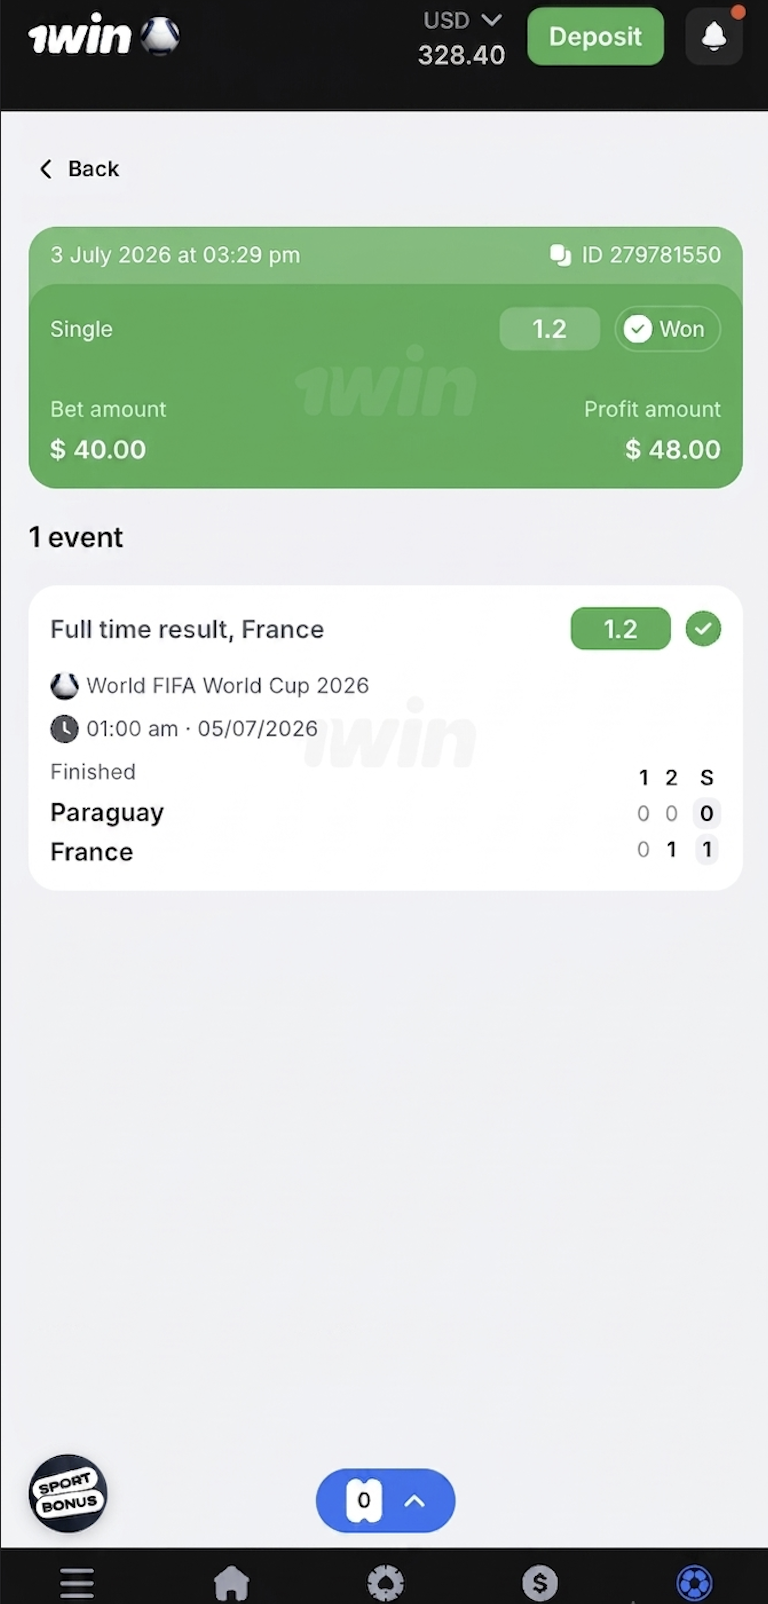
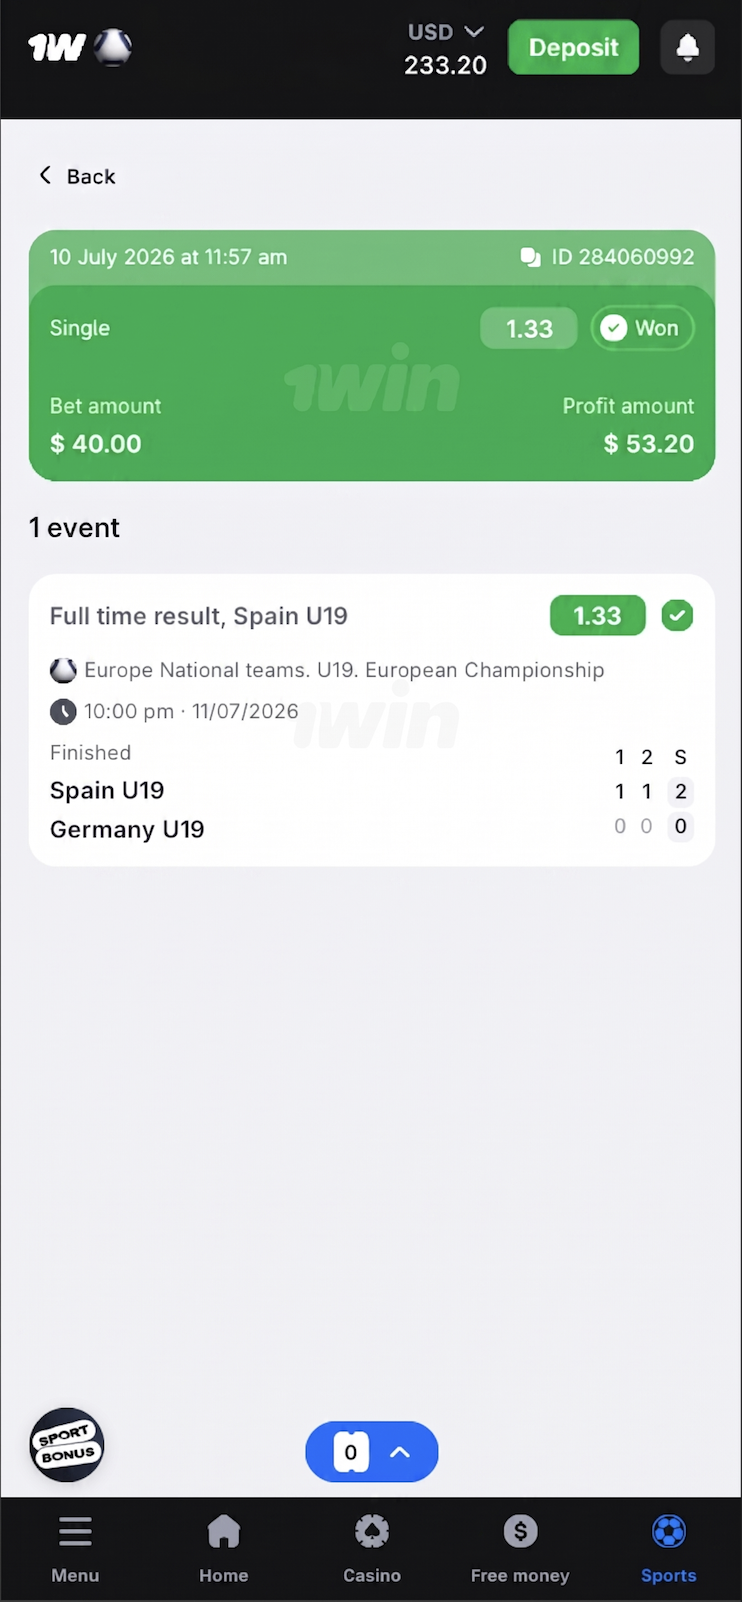
upadte

Changed region(s): [[0.0, 0.0, 1.0, 1.0], [0.062, 0.3433, 0.9609, 0.5618], [0.8059, 0.4682, 0.9299, 0.5306]]

diff --git a/fortunobet/FortunoBetBot.py b/fortunobet/FortunoBetBot.py
@@ -42,7 +42,6 @@ scheduler = BlockingScheduler()
 # 22:00 — Final Bonus (HYPE)
 
 posts =[
-# Ghana
 # {"date": "2026-06-15", "time": "12:00", "content": "🏀 <b>Oklahoma City Thunder ✅ USA NBA</b>\n\nNBA Playoffs. Odds 1.49. 🏆\n$70 → $104.30. Final 127-114. Dominated. 💸\n\nOKC home court elite. Data clear. H2H obvious. E easy be. 🎯\nSTOP WATCHING. They collecting. Pick ONE. Place it. GO. 🔥\n\nDeposit GH₵50 → play with GH₵300\n🔑 Code: <code>fortunobet</code>\n👉 <b>PLACE YOUR BET:</b> https://r1wexmo.life/betting?open=register&p=t02b", "images": ["2win1.png"]},
 # {"date": "2026-06-15", "time": "18:00", "content": "🎯 Placing this now. Spain vs Cape Verde. World Cup 2026.\nSpain home machine. Won 8 of last 10 at home. Odds 1.08.\nEntering on 1WIN now. 👀\n👉 https://one-vv3184.com/betting/match/sport/spain-vs-cape-verde-31345118", "images": []},
 # {"date": "2026-06-15", "time": "23:55", "content": "💸 <b>GH₵450 MTN Mobile Money — Instant. ✅</b>\n\nMonday 15 June. 05:10 AM. Real notification. 💚\nGH₵450 (~$30 USD). ID: MTN-[phone redacted]. Same minute.\n\nOKC were at home. Spurs had no answers all game.\nKwame backed it early. Withdrew before work. Chale. 💸\n\nSame quality data loads every week. Back it yourself. 🙏\n\nStart with GH₵50. Test withdrawal yourself.\n🔑 Code: <code>fortunobet</code>\n👉 <b>Test it yourself:</b> https://r1wexmo.life/betting?open=register&p=t02b", "images": ["15waiting.png", "15fast.png"]},
@@ -66,21 +65,33 @@ posts =[
 # {"date": "2026-06-21", "time": "23:55", "content": "🎰 <b>500% Bonus — active tonight only! ❌</b>\n\n1WIN Casino. Fortune Tiger. Gates of Olympus. 💰\nGH₵50 → play with GH₵300 + 500 free spins. Chale.\n\nPromo code works now — not guaranteed tomorrow. ⚠️\nThree payouts this week. GH₵450 + GH₵750 + GH₵1,200. No dulling. 💸\n\nPlace your bet before bonus expires. JOIN NOW. 🔥\n\nDeposit GH₵50 → play with GH₵300\n🔑 Code: <code>fortunobet</code>\n👉 <b>PLACE YOUR BET:</b> https://r1wexmo.life/betting?open=register&p=t02b", "images": ["bonus4.jpeg"]},
 
 
+  {"date":"2026-07-13","time":"15:00","content":"🏀 <b>Dallas Wings W ✅ USA WNBA</b>\n\nUSA WNBA. Odds 1.34. 🏆\n$45 → $60.30. Final 108-95. Dominated. 💸\n\nDallas Wings elite form. Data clear. H2H obvious. It's too easy. 🎯\nSTOP WATCHING. We are winning. Pick ONE. Place it. GO. 🔥\n\nDeposit UGX 10,000 → play with UGX 60,000\n🔑 Code: <code>fortunobet</code>\n👉 <b>PLACE YOUR BET:</b> https://r1wexmo.life/betting?open=register&p=t02b","images":["win3.png"]},
+  {"date":"2026-07-13","time":"23:55","content":"💸 <b>UGX 112,000 MTN Mobile Money — Instant. ✅</b>\n\nMonday 13 July. 05:13 AM. Real notification. 💚\nUGX 112,000 (~$30 USD). ID: MM-[phone redacted]. Same minute.\n\nDallas Wings were elite at home. Toronto had no answers.\nBrian backed it early. Withdrew before morning. So simple. 💸\n\nSame quality data loads every week. Back it yourself. 🙏\n\nStart with UGX 10,000. Test withdrawal yourself.\n🔑 Code: <code>fortunobet</code>\n👉 <b>Test it yourself:</b> https://r1wexmo.life/betting?open=register&p=t02b","images":["withdrow1.png"]},
 
+  {"date":"2026-07-14","time":"12:00","content":"💡 <b>How to place your first bet — 30 seconds</b>\n\nMy friend, it's simple. Here is what smart bettors do.\n\nOpen 1WIN → find ONE match → UGX 10,000 → place bet. 🎯\nWin → withdraw MTN same day. That is it. 💸\n\nChannel members doing this every week — you are missing out.\nBrian placed ONE bet. Withdrew UGX 112,000. Share with 2 friends! Don't sleep.\n\nStart with UGX 10,000. Test withdrawal yourself.\n🔑 Code: <code>fortunobet</code>\n👉 <b>Test it yourself:</b> https://r1wexmo.life/betting?open=register&p=t02b","images":["fortunobet1.jpeg"]},
+  {"date":"2026-07-14","time":"17:00", "content": "🎰 <b>FortunoBet — All Games & All Bonuses in ONE Place! 🏆</b>\n\nWhy use separate sites? FortunoBet has it all! 💰\n\n⚽ Sports (WNBA, Premier League, Tennis)\n🎰 5,000+ Slots (Tower Rush, Aviator)\n♠️ Live Poker & Casino games\n\n⚡ <b>500% Welcome Bonus active now!</b>\n💸 Instant MTN & Airtel cashouts. It's too simple. 🎯\n\n🔑 Code: <code>fortunobet</code>\n👉 <b>PLACE YOUR BET:</b> https://fortunobet.com/", "images": ["fortunobetVIP.jpeg"]},
+  {"date":"2026-07-14","time":"23:55","content":"⚡ <b>UGX 112,000 arrived. Instant. No stress. ✅</b>\n\nMonday 13 July. 05:13 AM. Real MTN. 💚\nID: MM-7732211. Same minute. Zero fees.\n\nSome people are still scrolling. Brian already backed Dallas Wings — withdrew same morning. 💸\n\nThe platform works. The only question is when you will try it. 🙏\n\nStart with UGX 10,000. Test withdrawal yourself.\n🔑 Code: <code>fortunobet</code>\n👉 <b>Test it yourself:</b> https://r1wexmo.life/betting?open=register&p=t02b","images":["withdrow1.png"]},
 
-{"date": "2026-07-09", "time": "12:00", "content": "Stop leaving your gaming profits to luck! 💸\n\nLive tracking, verified partner platforms, and elite algorithms ready on FortunoBet. 🎰\n- Ggwe, stop watching from the sidelines. Tap below and activate your account.\n- 1WIN platform is locked for the big winners tonight. 💸\n- E easy be. Tap below. Start collecting. 🎯\n\n🔑 Code: <code>fortunobet</code>\n👉 OPEN PLATFORM NOW: https://fortunobet.com", "images": ["fortunobetVIP.jpeg"]},
-{"date": "2026-07-09", "time": "16:55", "content": "💚 Midnight Mobile Money Alert verified successfully! ✅\n\nWednesday execution complete. 12:14 AM real transaction check. 💸\n- $50 USD extracted cleanly into local networks while town was asleep. 💸\n- Smart bettors read the analytics node and secured early profit margins. 🙏\n- Ivan backed it early. Withdrew before breakfast. Kati. 💸\n\nStart with UGX 12,000. Test withdrawal yourself.\n🔑 Code: <code>fortunobet</code>\n👉 Test it yourself: https://r1wexmo.life/betting?open=register&p=t02b", "images": ["with2.png"]},
+  {"date":"2026-07-15","time":"12:00","content":"🎾 <b>Simona Waltert ✅ WTA 125K Bastad</b>\n\nWTA 125K Bastad. Sweden. Clay. Odds 1.42. 🏆\n$55 → $78.10. Final 2-0 (7-5, 6-2). Dominated. 💸\n\nClay form elite. Waltert baseline locked. It's too simple. 🎯\nSTOP WATCHING. They are collecting wins. Pick ONE. GO. 🔥\n\nDeposit UGX 10,000 → play with UGX 60,000\n🔑 Code: <code>fortunobet</code>\n👉 <b>PLACE YOUR BET:</b> https://r1wexmo.life/betting?open=register&p=t02b","images":["win2.png"]},
+  {"date":"2026-07-15","time":"19:00","content":"","images":[]},
+  {"date":"2026-07-15","time":"23:55","content":"🚨 <b>Members withdrew twice this week already. ✅</b>\n\nUGX 112,000 Monday. UGX 120,000 today. MTN instant. Real proof. 💚\nChannel members are collecting — you are watching from the outside.\n\nDallas Wings paid. Simona Waltert paid. Two different sports. Same result.\nPick ONE match tonight before odds shift. How long will you watch? 🔥\n\nDeposit UGX 10,000 → play with UGX 60,000\n🔑 Code: <code>fortunobet</code>\n👉 <b>PLACE YOUR BET:</b> https://r1wexmo.life/betting?open=register&p=t02b","images":["withdrow2.png"]},
 
-{"date": "2026-07-10", "time": "12:00", "content": "⚾ Elite Diamond Clearcut! Baseball Execution ✅\n\nUSA MLB Match setup. Odds 1.26. 🏆\n- Stake UGX 10,000 ➔ Secure UGX 12,600 total return. ✅\n- Baltimore Orioles dominated Washington Nationals cleanly. 💸\n- No long stories, stop analyzing on your own. Copy the system. 🔥\n- Data clear. H2H obvious. Back it yourself. 🙏\n\nDeposit UGX 12,000 → play with UGX 72,000\n🔑 Code: <code>fortunobet</code>\n👉 PLACE YOUR BET: https://r1wexmo.life/betting?open=register&p=t02b", "images": ["win3.png"]},
-{"date": "2026-07-10", "time": "18:00", "content": "🎯 Spain vs Belgium. World Cup 2026.\n\nSpain strong at home, scoring 1.5+ in 7 of last 10. Odds 1.30. \n- Backing the Spanish dominance tonight. Entering 1WIN now. 🔥\n- Spain home machine. No dulling. Pick ONE. GO. 🎯\n- Channel members already locked in. You dey outside. 💸\n\nDeposit UGX 12,000 → play with UGX 72,000\n🔑 Code: <code>fortunobet</code>\n👉 PLACE YOUR BET: https://one-vv4763.com/betting/match/sport/spain-vs-belgium-37225612?p=z4m5", "images": []},
-{"date": "2026-07-11", "time": "00:49", "content": "♠️ THE ULTIMATE PRIZE FOR A ROYAL FLUSH IS WAITING! 💎\n\nFor the true card sharks and strategic masterminds across Kampala! 🇺🇬\n- Enter high-stakes elite casino lobbies where big players secure revenue.\n- Massive multipliers, certified fair play algorithms, instant pay. 💸\n- Do not play small. Tap the link, use the code, sit at the table. 👇\n- Same quality data loads every week. Back it yourself. 🙏\n\nStart with UGX 12,000. Test withdrawal yourself.\n🔑 Code: <code>fortunobet</code>\n👉 Test it yourself: https://r1wexmo.life/betting?open=register&p=t02b", "images": ["bpnus5.jpeg"]},
+  {"date":"2026-07-16","time":"12:00","content":"📊 <b>3 mistakes Uganda bettors make every week</b>\n\nMy friends, stop making these mistakes.\n\n❌ Betting big — lose everything fast.\n❌ Random channels — no data, pure luck.\n❌ Chasing losses — emotion kills bankroll.\n\nBrian's ONE pick — backed Dallas Wings home form. Withdrew UGX 112,000.\nWeekend fixtures loading — find yours before odds close. 🔥\n\nDeposit UGX 10,000 → play with UGX 60,000\n🔑 Code: <code>fortunobet</code>\n👉 <b>PLACE YOUR BET:</b> https://r1wexmo.life/betting?open=register&p=t02b","images":["fortunobet3.jpeg"]},
+  {"date":"2026-07-16","time":"18:00","content":"💬 Anybody collected this week?\n\nShow your MTN alert below 👇\nReal wins only. Let's see who is serious. 💸","images":[]},
+  {"date":"2026-07-16","time":"23:55","content":"💚 <b>Brian backed Simona Waltert → withdrew UGX 120,000 ✅</b>\n\nReal story. This week. Brian, Kampala.\n\nWTA 125K Bastad. Clay form. Simona baseline elite.\nBrian read the data. Backed it Wednesday. Withdrew same morning. 💸\nID: MM-7732212. MTN. UGX 120,000. Instant.\n\nSame quality matches load every week. Find yours. Back it. 🙏\n\nStart with UGX 10,000. Test withdrawal yourself.\n🔑 Code: <code>fortunobet</code>\n👉 <b>Test it yourself:</b> https://r1wexmo.life/betting?open=register&p=t02b","images":["withdrow2.png"]},
 
-{"date": "2026-07-11", "time": "12:00", "content": "💎 Turn MoMo stakes into massive casino runs! 🎰\n\nFortunoBet gives you direct access to elite slots and live crash games. 💸\n- Kati, stop lagging behind. Enter early, use the code, and clear the table!\n- Ivan backed it Friday. UGX 300,000 before lunch. 💸\n- Weekend matches loading — last chance before odds drop. ⚠️\n- No dulling. Back yours today. 🎯\n\nStart with UGX 12,000. Test withdrawal yourself.\n🔑 Code: <code>fortunobet</code>\n👉 Test it yourself: https://fortunobet.com", "images": ["fortunobetVIP.jpeg"]},
-{"date": "2026-07-11", "time": "18:03", "content": "🤔 Real talk —\n\n9 solid match analysis. 64 USD profit secured this week. \nWe are here for the bank, not the talk. You still watching? 💸", "images": []},
-{"date": "2026-07-11", "time": "23:55", "content": "🔵 CHOOSE THE BEST: SUPPORT YOUR FAVORITE TEAM & WIN TOGETHER! ⚽\n\nElite clubs hitting the pitches, smart squad making regular bank. 🇺🇬\n- Get the highest possible odds margins using the ultimate setup.\n- Fast payouts, secure no-fee deposits, and huge welcome rewards. 💸\n- Some people still scrolling. Ivan already backed it — withdrew same morning. 💸\n- While they thinking — he collected. The platform works. 🙏\n\nStart with UGX 12,000. Test withdrawal yourself.\n🔑 Code: <code>fortunobet</code>\n👉 Test it yourself: https://r1wexmo.life/betting?open=register&p=t02b", "images": ["bonus1.jpeg"]},
+  {"date":"2026-07-17","time":"12:00","content":"⚽ <b>Spain U19 ✅ U19 European Championship</b>\n\nEurope National Teams. Odds 1.33. 🏆\n$40 → $53.20. Final 2-0. Dominated. 💸\n\nSpain youth depth elite. Spain U19 dominated German U19. It's too simple. 🎯\nSTOP WATCHING. They are collecting wins. Pick ONE. GO. 🔥\n\nDeposit UGX 10,000 → play with UGX 60,000\n🔑 Code: <code>fortunobet</code>\n👉 <b>PLACE YOUR BET:</b> https://r1wexmo.life/betting?open=register&p=t02b","images":["win1.png"]},
+  {"date":"2026-07-17","time":"17:00","content": "🎰 <b>FortunoBet — All Games & All Bonuses in ONE Place! 🏆</b>\n\nWhy use separate sites? FortunoBet has it all! 💰\n\n⚽ Sports (WNBA, Premier League, Tennis)\n🎰 5,000+ Slots (Tower Rush, Aviator)\n♠️ Live Poker & Casino games\n\n⚡ <b>500% Welcome Bonus active now!</b>\n💸 Instant MTN & Airtel cashouts. It's too simple. 🎯\n\n🔑 Code: <code>fortunobet</code>\n👉 <b>PLACE YOUR BET:</b> https://fortunobet.com/", "images": ["fortunobetVIP.jpeg"]},
+  {"date":"2026-07-17","time":"23:55","content":"💸 <b>UGX 198,000 MTN Mobile Money — Instant. ✅</b>\n\nFriday 17 July. 08:23 AM. Real notification. 💚\nUGX 198,000 (~$53 USD). ID: MM-[phone redacted]. Same minute.\n\nSpain U19 at home/neutral. Germany had no answers.\nBrian backed the form. Withdrew before morning. 💸\nWeekend matches loading — last chance before odds drop.\n\nBack yours today. No sleeping. 🙏\n\nStart with UGX 10,000. Test withdrawal yourself.\n🔑 Code: <code>fortunobet</code>\n👉 <b>Test it yourself:</b> https://r1wexmo.life/betting?open=register&p=t02b","images":["withdrow3.png"]},
 
-{"date": "2026-07-12", "time": "09:35", "content": "This week. 3 different picks. 3 wins. Real. ✅\n\n- Mon: World Cup Knockout ✅ France. Baseline clear.\n- Wed: World Cup ✅ Colombia. Defense locked.\n- Fri: MLB Clearcut ✅ Baltimore Orioles. Data dominated.\n\nUGX 120,000 + UGX 180,000 + UGX 126,000 = All MTN. All instant. 💸\nThree sports. Three payouts. You still watching? JOIN NOW. 🔥\n\nDeposit UGX 12,000 → play with UGX 72,000\n🔑 Code: <code>fortunobet</code>\n👉 PLACE YOUR BET: https://r1wexmo.life/betting?open=register&p=t02b", "images": ["win1.png", "win2.png", "win3.png"]},
-{"date": "2026-07-12", "time": "21:30", "content": "Weekly withdrawal alerts verified successfully! ✅\n\nFriday morning target reached. 08:54 AM MoMo confirmation. 💸\nWednesday execution complete. 12:14 AM real transaction check. 💸\nUGX 150,000 + UGX 120,000 extracted cleanly while town was asleep. 💸\nSmart bettors read the analytics node and secured early profit margins. 🙏\nIvan backed it early. Withdrew before breakfast. Kati. 💸\n\nStart with UGX 12,000. Test withdrawal yourself.\n🔑 Code: fortunobet\n👉 Test it yourself: https://r1wexmo.life/betting?open=register&p=t02b", "images": ["with2.png", "with3.png"]},
+  {"date":"2026-07-18","time":"12:00","content":"🏆 <b>Backed Wednesday. Withdrew same day.</b>\n\nSimona Waltert. WTA Bastad. Odds 1.42. ✅\nProfit $78.10. MTN UGX 120,000. ID: MM-7732212. Instant. ✅\n\nSimona Waltert clay record was clear. Brian read it early.\nWithdrew before Kampala even woke up. 💸\n\nOdds won't stay. Find your pick now. No sleeping. JOIN NOW. 🔥\n\nStart with UGX 10,000. Test withdrawal yourself.\n🔑 Code: <code>fortunobet</code>\n👉 <b>Test it yourself:</b> https://r1wexmo.life/betting?open=register&p=t02b","images":["win2.png","withdrow2.png"]},
+  {"date":"2026-07-18","time":"18:00","content":"","images":[]},
+  {"date":"2026-07-18","time":"21:00","content":"♠️ <b>Poker Friday share $5000 — active today! ❌</b>\n\n1WIN Poker. Every Friday. No entry fee required. 💰\nPlay with professional and casual players. Share a prize pool of $5000.\n\nUse promo code to register. ⚠️\nThree payouts this week. UGX 112,000 + UGX 120,000 + UGX 198,000. No sleeping. 💸\n\nJoin poker now. JOIN NOW. 🔥\n\nDeposit UGX 10,000 → play with UGX 60,000\n🔑 Code: <code>fortunobet</code>\n👉 <b>PLACE YOUR BET:</b> https://r1wexmo.life/betting?open=register&p=t02b","images":["fortunobet2.jpeg"]},
+  
+  {"date":"2026-07-19","time":"12:00","content":"💚 <b>This week. 3 different picks. 3 wins. Real. ✅</b>\n\nMon: Dallas Wings ✅ USA WNBA. Home court dominant.\nWed: Simona Waltert ✅ WTA. Clay form locked.\nFri: Spain U19 ✅ European Championship. Youth depth elite.\n\nUGX 112,000 + UGX 120,000 + UGX 198,000 = All MTN. All instant. 💸\nThree sports. Three payouts. You still watching? JOIN NOW. 🔥\n\nDeposit UGX 10,000 → play with UGX 60,000\n🔑 Code: <code>fortunobet</code>\n👉 <b>PLACE YOUR BET:</b> https://r1wexmo.life/betting?open=register&p=t02b","images":["withdrow1.png","withdrow2.png","withdrow3.png"]},
+  {"date":"2026-07-19","time":"18:00","content":"😂 Weekend done — who won?\n\nDrop your biggest win below 👇\nNext week we go again. Who is ready? 🔥","images":[]},
+  {"date":"2026-07-19","time":"23:55","content":"🎰 <b>500% Bonus — active tonight only! ❌</b>\n\n1WIN Casino. Tower Rush. Fortune Tiger. Gates of Olympus. 💰\nUGX 10,000 → play with UGX 60,000 + 500 free spins.\n\nPromo code works now — not guaranteed tomorrow. ⚠️\nThree payouts this week. UGX 112,000 + UGX 120,000 + UGX 198,000. No sleeping. 💸\n\nPlace your bet before bonus expires. JOIN NOW. 🔥\n\nDeposit UGX 10,000 → play with UGX 60,000\n🔑 Code: <code>fortunobet</code>\n👉 <b>PLACE YOUR BET:</b> https://r1wexmo.life/betting?open=register&p=t02b","images":["fortunobet.png","fortunobet.jpeg"]}
+
 ]
 
 